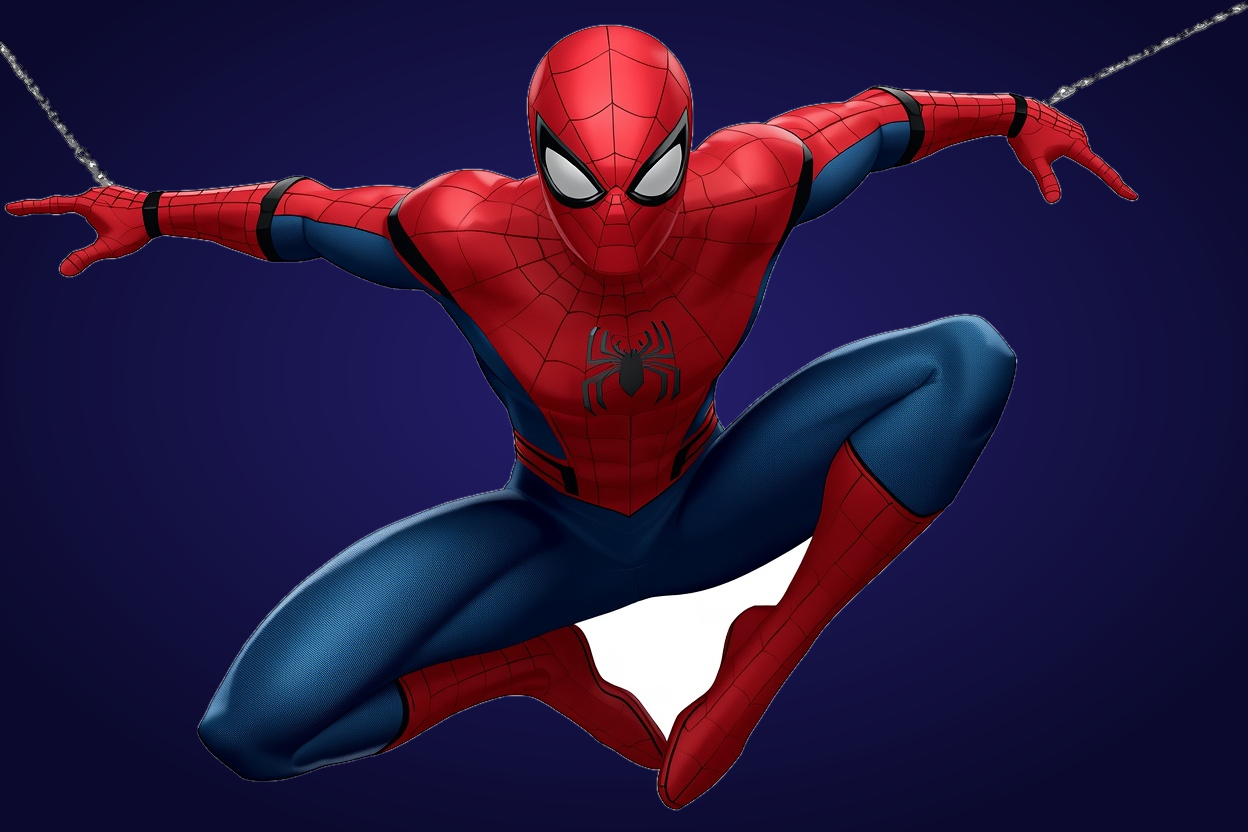
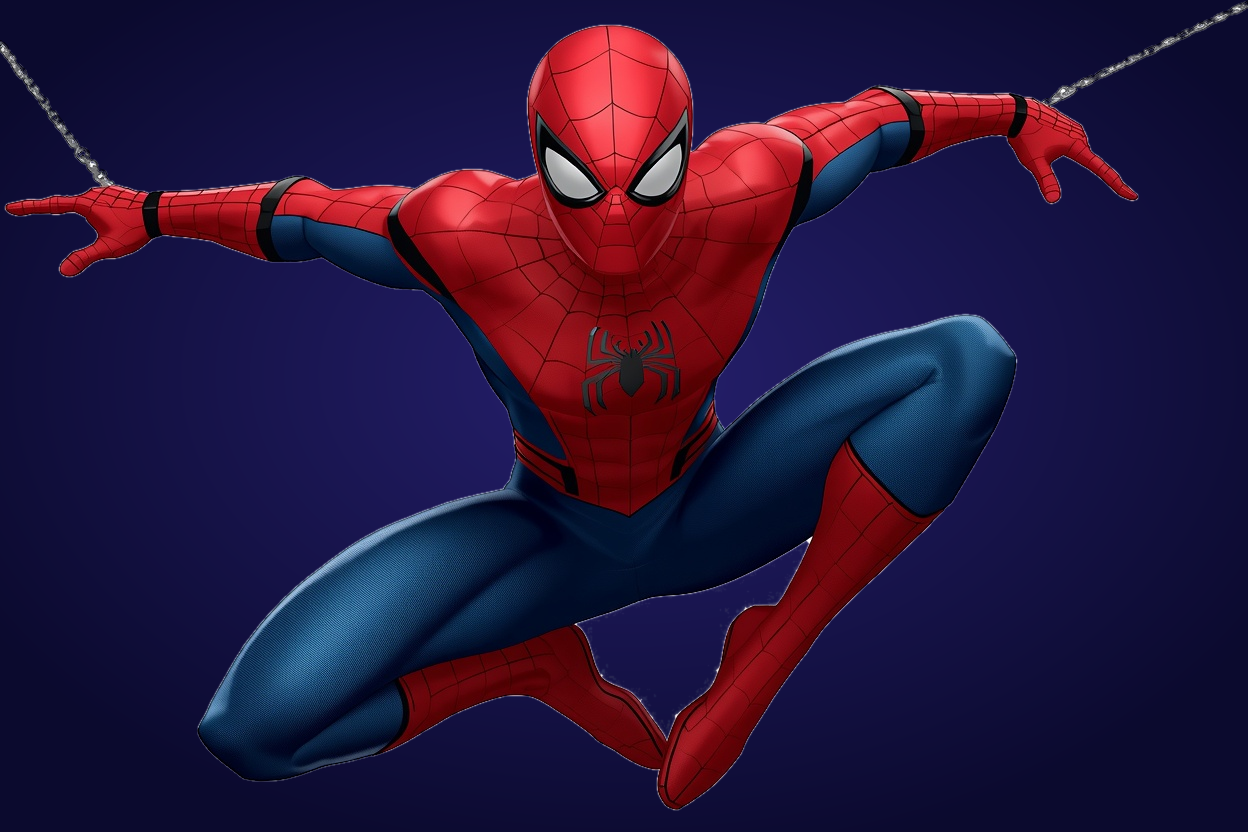
search: rounded answer picture card with accent border, answer box with name, slightly smaller; fix enclosed white in answer 01
Claude-Session: https://claude.ai/code/session_01PCd5XNgb1u6ZKHwb9LV5Xg

Changed region(s): [[0.4688, 0.6562, 0.6562, 0.875]]

diff --git a/src/search/components/AnswerPicture.tsx b/src/search/components/AnswerPicture.tsx
@@ -6,12 +6,13 @@ import { FPS } from '../../timing';
 import '../../fonts';
 
 /**
- * Picture-only reveal: the answer's picture, as large as the slot allows, with nothing around it (no card, no frame).
- * Behind it a soft spotlight in the level accent. Optionally the name under it (`showName`, from settings reveal.showName).
+ * Reveal: the answer's picture on a rounded card with an accent border, and under it a rounded answer box with the name
+ * and where they are from (`showName`, from settings reveal.showName; without it the picture stands alone).
+ * Behind it a soft spotlight in the level accent.
  *
- * `at` is the tick the picture appears (design ticks, local to the scene). It pops in from a larger size with a little
- * overshoot, then floats slowly. The block is `size` wide and size / ASPECT tall (3:2 landscape pictures); with a name
- * the picture takes the top PICTURE_SHARE of it and the name the rest.
+ * `at` is the tick the picture appears (design ticks, local to the scene). The picture card pops in from a larger size
+ * with a little overshoot, then floats slowly; the answer box rises in just after it. The picture card is `size` wide
+ * and size / ASPECT tall (3:2 landscape pictures); the answer box sits under it, BOX_GAP and BOX_HEIGHT as shares of `size`.
  *
  * `image` is a file name in public/search/answers (listed in src/search/answer-images.json).
  */
@@ -26,11 +27,20 @@ const SPOTLIGHT_SECONDS = 0.5;
 const SPOTLIGHT_PERCENT = 34; // strength of the accent spotlight
 /** Width / height of the picture block. The pictures are 3:2 landscape. */
 const ASPECT = 3 / 2;
-/** Share of the block height the picture takes when the name is shown. */
-const PICTURE_SHARE = 0.84;
-/** Name size as a share of the block height, and the longest name that keeps that size before it shrinks. */
-const NAME_SIZE = 0.11;
-const NAME_FULL_CHARS = 12;
+/** Layout, as shares of the picture width. */
+const RADIUS = 0.05; // corner radius of the picture card
+const BOX_GAP = 0.035;
+const BOX_HEIGHT = 0.15;
+const BOX_RADIUS = 0.04;
+const BORDER_PX = 3; // reference units
+/** Name size as a share of the box height, and the longest name that keeps that size before it shrinks. */
+const NAME_SIZE = 0.5;
+const NAME_FULL_CHARS = 14;
+/** The answer box starts this long after the picture, and rises over BOX_RISE_SECONDS. */
+const BOX_DELAY_SECONDS = 0.18;
+const BOX_RISE_SECONDS = 0.3;
+/** Share of the block height the whole block (picture + gap + box) takes, used by callers to size it. */
+export const answerPictureHeightShare = (showName: boolean) => 1 / ASPECT + (showName ? BOX_GAP + BOX_HEIGHT : 0);
 
 const clamp01 = (v: number) => Math.max(0, Math.min(1, v));
 
@@ -44,7 +54,7 @@ export type AnswerPictureProps = {
   accent: string;
   /** Centre-x and top-y of the block, reference units. */
   place: { x: number; y: number };
-  /** Block width, reference units (its height is size / 3 * 2). */
+  /** Picture card width, reference units (its height is size / 3 * 2). */
   size: number;
   showName?: boolean;
 };
@@ -54,58 +64,78 @@ export const AnswerPicture: React.FC<AnswerPictureProps> = ({ image, name, from,
   const frame = frameProp ?? ownFrame;
   if (frame < at) return null;
 
-  const S = px(size); // block width
-  const B = S / ASPECT; // block height
-  const picH = showName ? B * PICTURE_SHARE : B;
+  const S = px(size); // picture card width
+  const H = S / ASPECT; // picture card height
+  const boxTop = H + S * BOX_GAP;
+  const boxH = S * BOX_HEIGHT;
   const t = clamp01((frame - at) / (POP_SECONDS * FPS));
   const back = 1 + 2.70158 * Math.pow(t - 1, 3) + 1.70158 * Math.pow(t - 1, 2);
   const scale = POP_FROM + (1 - POP_FROM) * back;
   const opacity = clamp01((frame - at) / (FADE_SECONDS * FPS));
-  const float = Math.sin(((frame - at) / (FLOAT_SECONDS * FPS)) * Math.PI * 2) * B * FLOAT;
+  const float = Math.sin(((frame - at) / (FLOAT_SECONDS * FPS)) * Math.PI * 2) * H * FLOAT;
   const spot = clamp01((frame - at) / (SPOTLIGHT_SECONDS * FPS));
-  const nameFont = B * NAME_SIZE * Math.min(1, NAME_FULL_CHARS / Math.max(1, name.length));
+  const boxT = clamp01((frame - at - BOX_DELAY_SECONDS * FPS) / (BOX_RISE_SECONDS * FPS));
+  const boxK = 1 - Math.pow(1 - boxT, 3);
+  const nameFont = boxH * NAME_SIZE * Math.min(1, NAME_FULL_CHARS / Math.max(1, name.length));
+  const border = px(BORDER_PX);
 
   return (
-    <div style={{ position: 'absolute', left: px(place.x) - S / 2, top: px(place.y), width: S, height: B, opacity }}>
+    <div style={{ position: 'absolute', left: px(place.x) - S / 2, top: px(place.y), width: S, height: showName ? boxTop + boxH : H, opacity }}>
       {/* spotlight */}
       <div
         style={{
           position: 'absolute',
           left: -S * 0.1,
-          top: -B * 0.1,
+          top: -H * 0.1,
           width: S * 1.2,
-          height: picH * 1.2,
+          height: H * 1.2,
           background: `radial-gradient(ellipse 50% 50% at 50% 50%, color-mix(in srgb, ${accent} ${(SPOTLIGHT_PERCENT * spot).toFixed(1)}%, transparent), transparent 70%)`,
           pointerEvents: 'none',
         }}
       />
-      <Img
-        src={staticFile(`search/answers/${image}`)}
+      {/* picture card: rounded, accent border */}
+      <div
         style={{
           position: 'absolute',
           left: 0,
           top: 0,
           width: S,
-          height: picH,
-          objectFit: 'contain',
+          height: H,
+          borderRadius: S * RADIUS,
+          overflow: 'hidden',
+          boxSizing: 'border-box',
+          border: `${border}px solid ${accent}`,
+          boxShadow: `0 ${H * 0.03}px ${H * 0.07}px rgba(0,0,0,0.55), 0 0 ${H * 0.08}px color-mix(in srgb, ${accent} 45%, transparent)`,
           transform: `translateY(${float}px) scale(${scale})`,
           transformOrigin: 'center center',
-          filter: `drop-shadow(0 ${B * 0.02}px ${B * 0.035}px rgba(0,0,0,0.5))`,
+          background: COLORS.ink,
         }}
-      />
+      >
+        <Img
+          src={staticFile(`search/answers/${image}`)}
+          style={{ position: 'absolute', left: 0, top: 0, width: '100%', height: '100%', objectFit: 'cover' }}
+        />
+      </div>
+      {/* answer box */}
       {showName ? (
         <div
           style={{
             position: 'absolute',
             left: 0,
-            top: picH,
+            top: boxTop + (1 - boxK) * boxH * 0.4,
             width: S,
-            height: B - picH,
+            height: boxH,
+            opacity: boxK,
+            boxSizing: 'border-box',
+            borderRadius: S * BOX_RADIUS,
+            border: `${border}px solid ${accent}`,
+            background: 'rgba(8, 8, 28, 0.82)',
+            boxShadow: `0 0 ${boxH * 0.35}px color-mix(in srgb, ${accent} 40%, transparent)`,
             display: 'flex',
-            flexDirection: 'column',
             alignItems: 'center',
             justifyContent: 'center',
-            gap: nameFont * 0.15,
+            gap: nameFont * 0.5,
+            padding: `0 ${S * 0.03}px`,
           }}
         >
           <div
@@ -121,7 +151,7 @@ export const AnswerPicture: React.FC<AnswerPictureProps> = ({ image, name, from,
           >
             {name}
           </div>
-          <div style={{ fontFamily: FONTS.body, fontSize: nameFont * 0.4, color: COLORS.muted, whiteSpace: 'nowrap' }}>{from}</div>
+          <div style={{ fontFamily: FONTS.body, fontSize: nameFont * 0.5, color: COLORS.muted, whiteSpace: 'nowrap' }}>{from}</div>
         </div>
       ) : null}
     </div>

diff --git a/src/search/scenes/SearchRound.tsx b/src/search/scenes/SearchRound.tsx
@@ -9,7 +9,7 @@ import { SearchBar } from '../components/SearchBar';
 import { TimerBar } from '../components/TimerBar';
 import { HintClue } from '../components/HintClue';
 import { AnswerCard, answerCardHeight } from '../components/AnswerCard';
-import { AnswerPicture } from '../components/AnswerPicture';
+import { AnswerPicture, answerPictureHeightShare } from '../components/AnswerPicture';
 import settings from '../search-settings.json';
 import { ProgressDots } from '../components/ProgressDots';
 import { Flash } from '../../Fx';
@@ -42,10 +42,11 @@ const DIM_SECONDS = 0.25;
 /** The hint pair is about 2.3 emoji wide (HintEmoji spaces them 0.3 apart): size so the pair fits the slot width. */
 const HINT_PAIR_WIDTHS = 2.6;
 
-/** The reveal picture is 3:2 landscape: as wide as the slot height allows, but not wider than PICTURE_MAX_WIDTH
+/** The reveal picture is 3:2 landscape, sized to fit the slot height, but not wider than PICTURE_MAX_WIDTH
  *  (reference units, 1280 wide frame). Layout constants. */
-const PICTURE_ASPECT = 3 / 2;
-const PICTURE_MAX_WIDTH = 1100;
+const PICTURE_MAX_WIDTH = 740;
+/** Share of the answer slot height the picture block (card + answer box) may use. */
+const PICTURE_FILL = 0.82;
 
 const clamp01 = (v: number) => Math.max(0, Math.min(1, v));
 const easeOutCubic = (t: number) => 1 - Math.pow(1 - t, 3);
@@ -149,7 +150,10 @@ export const SearchRound: React.FC<SearchRoundProps> = ({ frame, index, lead }) 
         ),
       }}
       answer={{
-        children: (rect) => (
+        children: (rect) => {
+          const pictureW = Math.min((rect.h * PICTURE_FILL) / answerPictureHeightShare(settings.reveal.showName), PICTURE_MAX_WIDTH);
+          const pictureH = pictureW * answerPictureHeightShare(settings.reveal.showName);
+          return (
           <>
             <Flash frame={frame} start={revealAt} />
             {answerImage ? (
@@ -160,8 +164,8 @@ export const SearchRound: React.FC<SearchRoundProps> = ({ frame, index, lead }) 
                 at={revealAt}
                 frame={frame}
                 accent={level.accent}
-                place={{ x: rect.x, y: rect.y }}
-                size={Math.min(rect.h * PICTURE_ASPECT, PICTURE_MAX_WIDTH)}
+                place={{ x: rect.x, y: rect.y + (rect.h - pictureH) / 2 }}
+                size={pictureW}
                 showName={settings.reveal.showName}
               />
             ) : (
@@ -177,7 +181,8 @@ export const SearchRound: React.FC<SearchRoundProps> = ({ frame, index, lead }) 
               />
             )}
           </>
-        ),
+          );
+        },
       }}
       dots={{
         children: (rect) => (
